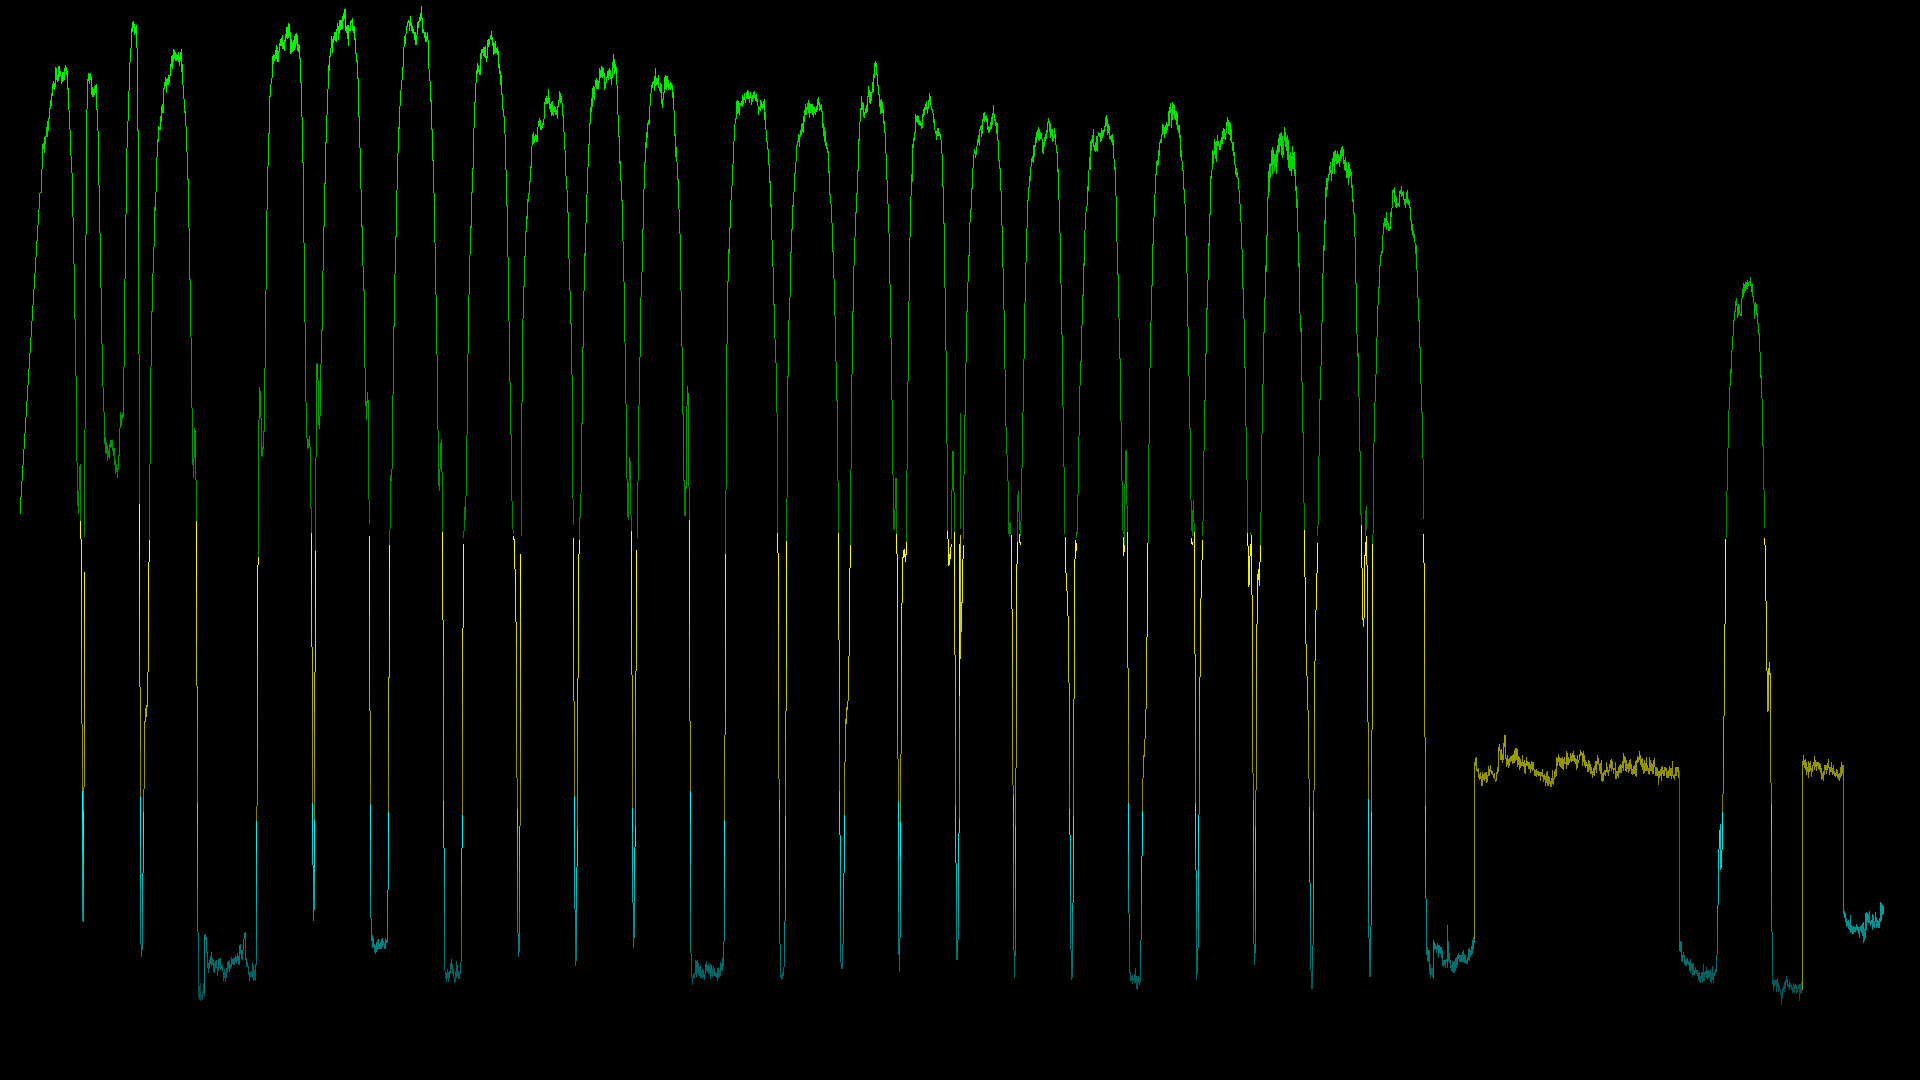
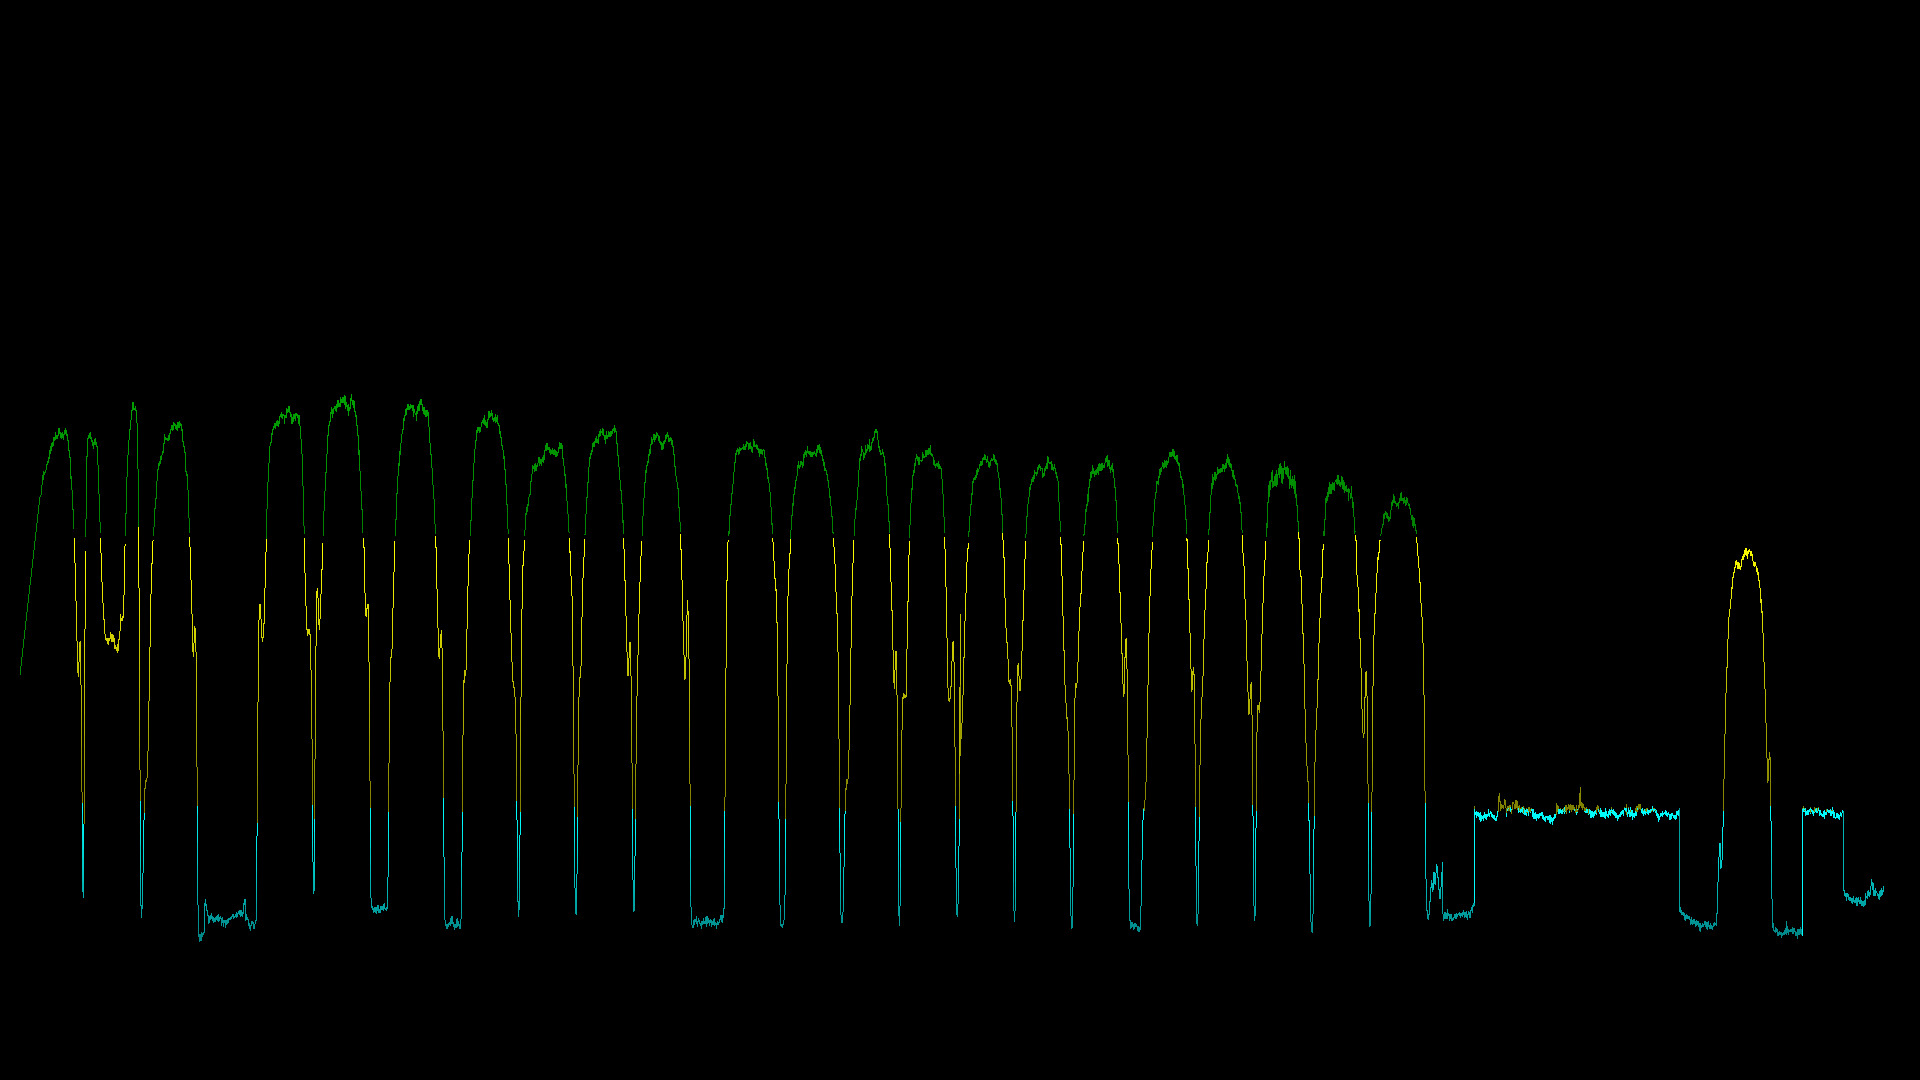
readme and screenshot

diff --git a/ddsx8-spec.c b/ddsx8-spec.c
@@ -408,10 +408,16 @@ void spectrum_output( int mode, io_data *iod, specdata *spec)
 
 		case SINGLE_PAM:
 		    if ( bm == NULL) {
+			double ymin = 20;
+			double ymax = 75;
+			if (iod->id == AGC_ON){
+			    ymin = 35;
+			    ymax = 80;
+			}
 			bm = init_bitmap(width, height, 3);
 			clear_bitmap(bm);
 			init_graph(&g, bm, iod->fstart/1000.0,
-				  iod->fstop/1000.0, 25, 55);
+				  iod->fstop/1000.0, ymin, ymax);
 		    }
 		    if (step == 1){
 			g.lastx = spec->freq[0];

diff --git a/README.md b/README.md
@@ -82,7 +82,7 @@ I switch off the AGC, but with -b you can turn it back on (see dvb.h and dvb.c o
 If you select the PAM format as output you can use ffplay to view the data
 as single image:
 
-`/ddsx8-spec -f 1030000  -k  | ffplay -f pam_pipe -`
+`./ddsx8-spec -f 1030000  -k  | ffplay -f pam_pipe -`
 
 or continuously:
 
@@ -92,7 +92,7 @@ or continuously:
 If you use the -t option and write the resulting comma separated list
 into the file test.csv like this: 
 
-`/ddsx8-spec -f 1210000  -b -t -n 1000 -i 1 > test.csv` 
+`./ddsx8-spec -f 1210000  -t  > test.csv` 
 
 you can use the gnuplot program to display the data with the added 
 gnuplot file test.gnuplot like this:
@@ -102,8 +102,17 @@ gnuplot file test.gnuplot like this:
 The -x option can be used to get a full spectrum scan with CSV output
 like this ( it will take a few seconds ):
 
-`/ddsx8-spec -f 1210000  -x 0 -b -t -n 1000 -i 1 > test.csv` 
+`./ddsx8-spec   -x 0 -t  > test.csv` 
+
+or as pam
+
+`./ddsx8-spec   -x 0  | ffplay -f pam_pipe -` 
 
 or for a specific range, e.g. 1000000 kHz to 1200000 kHz
 
-`/ddsx8-spec -f 1210000  -x  1000000 1200000 -b -t -n 1000 -i 1 > test.csv` 
+`./ddsx8-spec -x  1000000 1200000  -t  > test.csv` 
+
+or as pam
+
+`./ddsx8-spec   -x 1000000 1200000 | ffplay -f pam_pipe -` 
+
